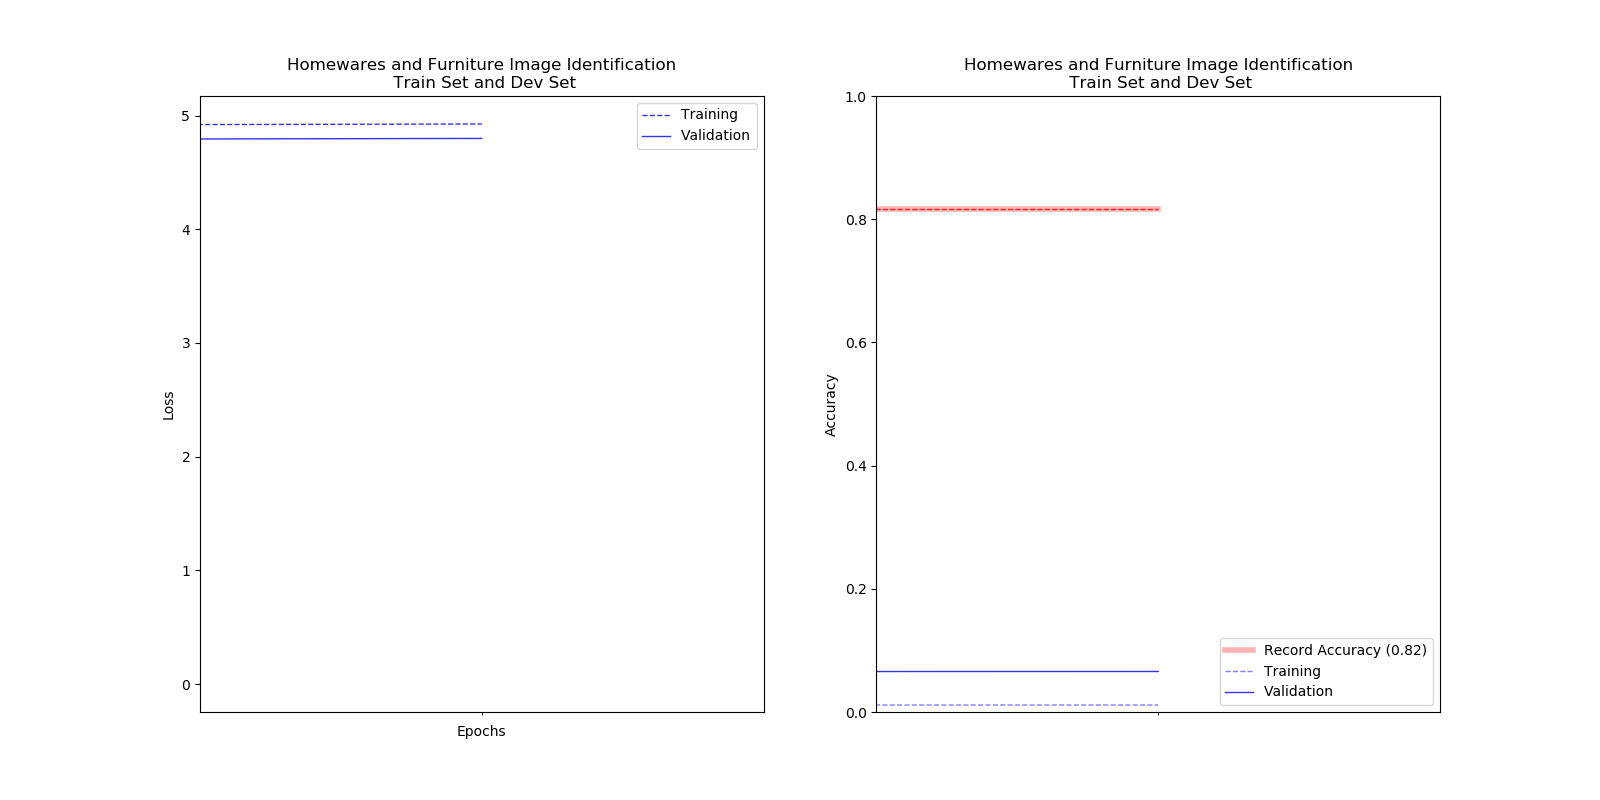
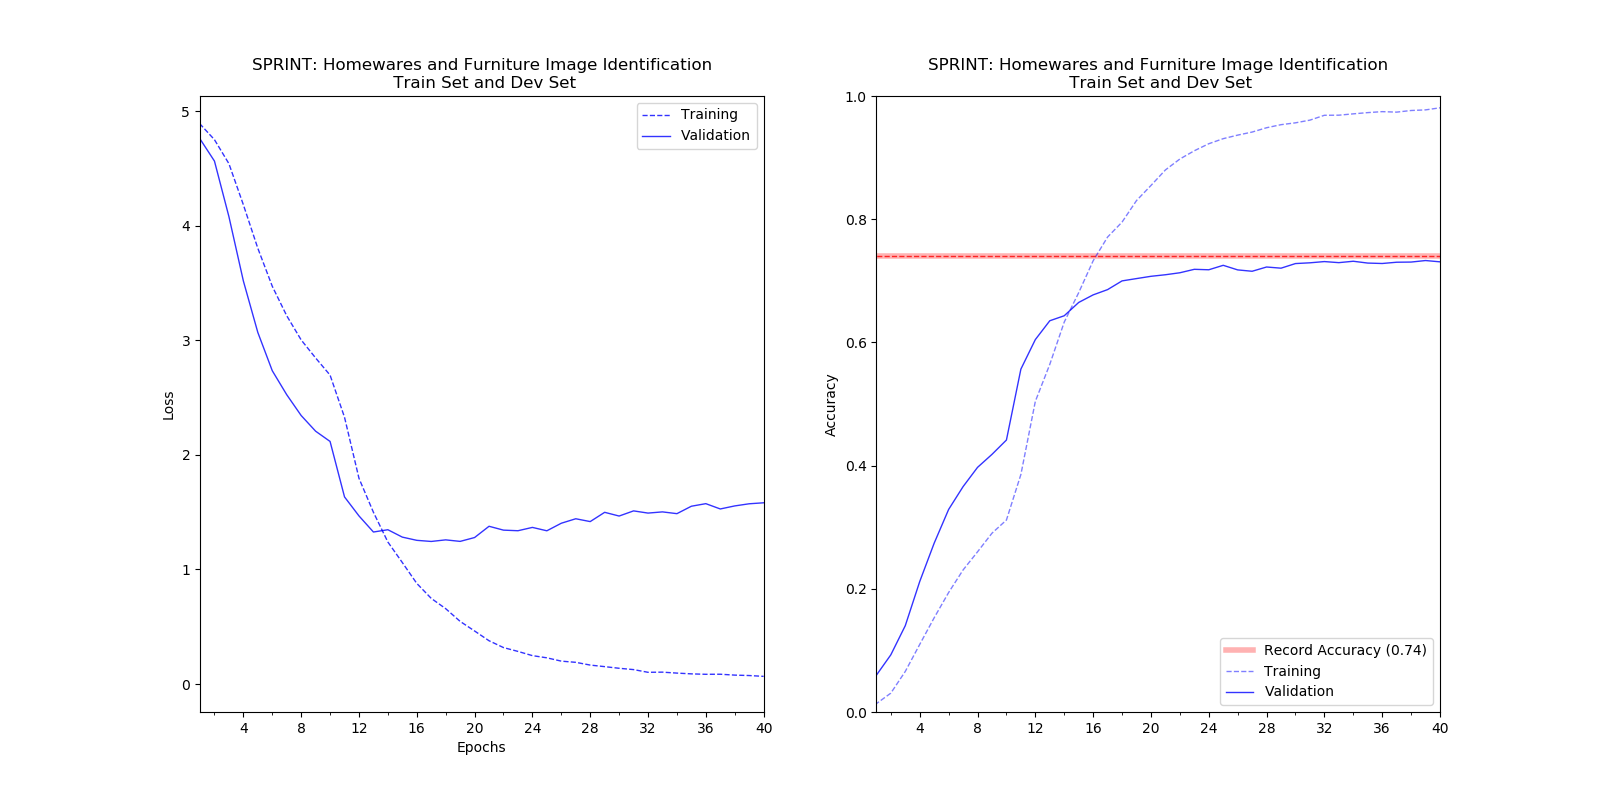
model 2_2b

diff --git a/src/model_cactuswren_v2.2.py b/src/model_cactuswren_v2.2.py
@@ -243,12 +243,12 @@ def run():
 
     # for Adam inital LR of 0.0001 is a good starting point
     # for SGD initial LR of 0.001 is a good starting point
-    LR = 0.00025
-    OPTIMIZER = Adam(lr=LR)
-    # OPTIMIZER = SGD(lr=lr, momentum=0.9)
+    LR = 0.0125
+    # OPTIMIZER = Adam(lr=LR)
+    OPTIMIZER = SGD(lr=LR, momentum=0.9)
 
     NB_IV3_LAYERS_TO_FREEZE = 172
-    MODEL_ID = 'v2_2a'
+    MODEL_ID = 'v2_2b'
 
     plot_file = "model_{:}.png".format(MODEL_ID)
     weights_file = "weights/model_{:}_weights.h5".format(MODEL_ID)
@@ -306,7 +306,7 @@ def run():
                                      use_multiprocessing=False)
 
     # mini-train 2
-    OPTIMIZER = Adam(lr=LR / 2.0)
+    OPTIMIZER = SGD(lr=LR / 2.0, momentum=0.9)
     # try to fine tune some of the InceptionV3 layers also
     setup_to_finetune(model, NB_IV3_LAYERS_TO_FREEZE - 2, OPTIMIZER)
 
@@ -317,7 +317,7 @@ def run():
                                      use_multiprocessing=False)
 
     # mini-train 3
-    OPTIMIZER = Adam(lr=LR / 4.0)
+    OPTIMIZER = SGD(lr=LR / 4.0, momentum=0.9)
     # try to fine tune some of the InceptionV3 layers also
     setup_to_finetune(model, NB_IV3_LAYERS_TO_FREEZE - 4, OPTIMIZER)
 
@@ -328,7 +328,7 @@ def run():
                                      use_multiprocessing=False)
 
     # mini-train 4
-    OPTIMIZER = Adam(lr=LR / 8.0)
+    OPTIMIZER = SGD(lr=LR / 8.0, momentum=0.9)
     # try to fine tune some of the InceptionV3 layers also
     setup_to_finetune(model, NB_IV3_LAYERS_TO_FREEZE - 6, OPTIMIZER)
 
